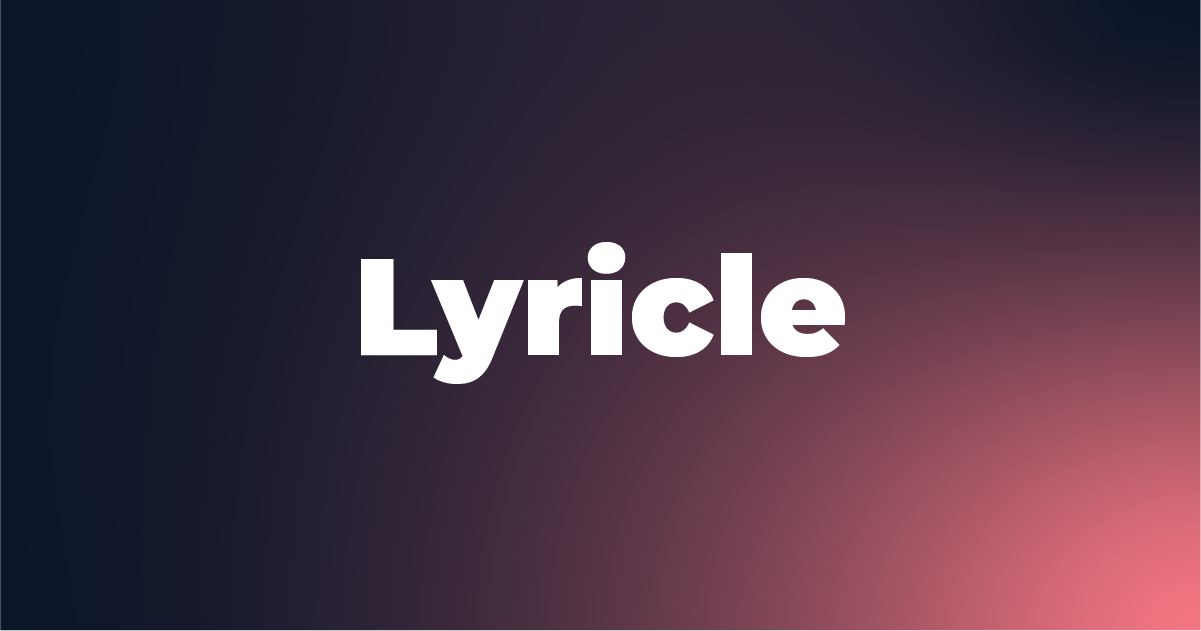
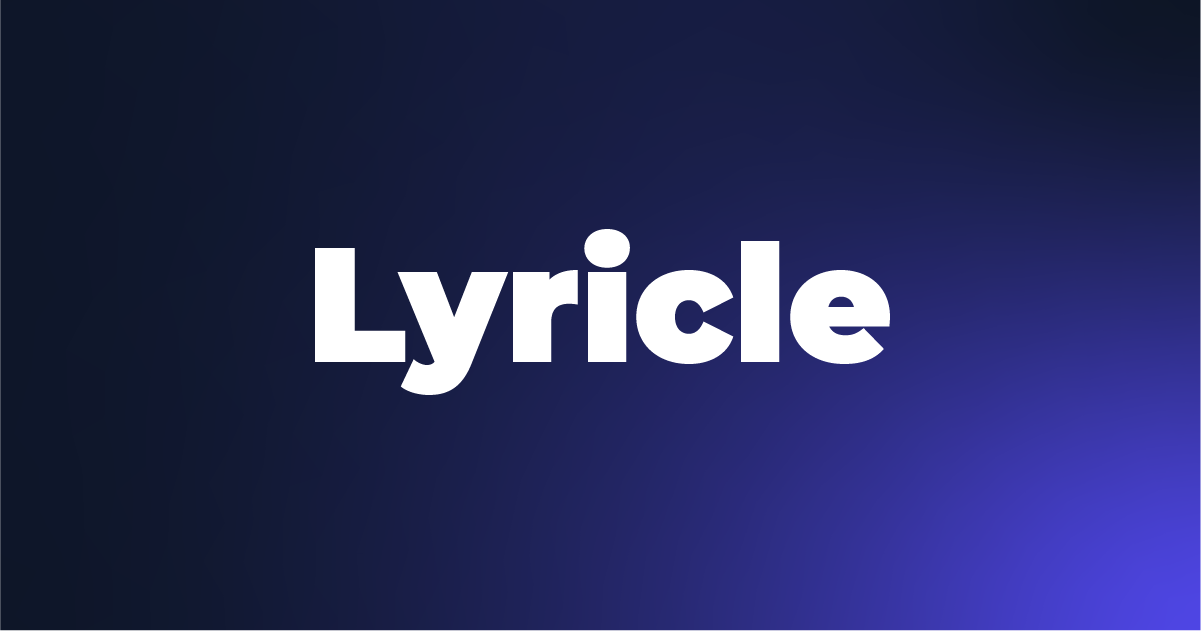
Add about page, update link preview thumbnail

diff --git a/src/components/modals/InfoModal.tsx b/src/components/modals/InfoModal.tsx
@@ -1,5 +1,8 @@
 import { BaseModal } from './BaseModal'
 
+import { ReactComponent as Twitter } from '../../assets/twitter.svg'
+import { ReactComponent as Instagram } from '../../assets/instagram.svg'
+
 type Props = {
   isOpen: boolean
   handleClose: () => void
@@ -8,15 +11,54 @@ type Props = {
 export const InfoModal = ({ isOpen, handleClose }: Props) => {
   return (
     <BaseModal title="About" isOpen={isOpen} handleClose={handleClose}>
-      <p className="text-sm text-gray-500 dark:text-gray-100">
-        Guess the song in 6 tries. After each guess, the color of the
-        corresponding section of the progress bar will change to show if your
-        guess was correct or not.
+      <div className="w-full h-0 pb-[56%] relative mt-3 mb-6 pointer-events-none">
+        <iframe
+          className="giphy-embed absolute"
+          title="another-one-gif"
+          src="https://giphy.com/embed/qgri3D9sTwCUGMcT8L"
+          width="100%"
+          height="100%"
+          frameBorder="0"
+          allowFullScreen
+        ></iframe>
+      </div>
+      <p className="text-sm dark:text-gray-200 mb-6">
+        We're sure you're all familiar with the "-le" type games by now. We were{' '}
+        <span className="decoration-double line-through">heavily</span> inspired
+        by both{' '}
+        <a
+          className="underline decoration-dashed decoration-green-400 dark:decoration-green-200 decoration-2 hover:bg-green-200 hover:text-gray-900 px-1"
+          href="https://heardle.app"
+          target="_blank"
+          rel="noreferrer"
+        >
+          Heardle
+        </a>{' '}
+        and{' '}
+        <a
+          className="underline decoration-dashed decoration-green-400 dark:decoration-green-200 decoration-2 hover:bg-green-200 hover:text-gray-900 px-1"
+          href="https://www.nytimes.com/games/wordle/index.html"
+          target="_blank"
+          rel="noreferrer"
+        >
+          Wordle
+        </a>{' '}
+        to create Lyricle.
       </p>
 
-      <p className="text-sm text-gray-500 dark:text-gray-300"></p>
+      <p className="text-sm dark:text-gray-200 mb-6">Hope you enjoy!</p>
 
-      <p className="mt-6 italic text-sm text-gray-500 dark:text-gray-300"></p>
+      <div className="flex justify-center">
+        <div className="icon flex mr-3">
+          <a href="https://twitter.com/lyricle_app">
+            <Twitter className="w-6 h-6 mx-1 grayscale hover:grayscale-0" />
+          </a>
+          <a href="https://www.instagram.com/lyricle_app/">
+            <Instagram className="w-6 h-6 mx-1 grayscale hover:grayscale-0" />
+          </a>
+        </div>
+        <p className="dark:text-gray-200">@lyricle_app</p>
+      </div>
     </BaseModal>
   )
 }

diff --git a/public/index.html b/public/index.html
@@ -11,12 +11,12 @@
     <meta property="og:type" content="website" />
     <meta property="og:url" content="https://www.lyricle.app" />
     <meta property="og:description" content="%REACT_APP_GAME_DESCRIPTION%" />
-    <meta property="og:image" content="%PUBLIC_URL%/Lyricle.png" />
+    <meta property="og:image" content="%PUBLIC_URL%/og.png" />
 
     <meta name="twitter:card" content="summary_large_image" />
     <meta name="twitter:title" content="%REACT_APP_GAME_TITLE%" />
     <meta name="twitter:description" content="%REACT_APP_GAME_DESCRIPTION%" />
-    <meta name="twitter:image" content="%PUBLIC_URL%/Lyricle.png" />
+    <meta name="twitter:image" content="%PUBLIC_URL%/og.png" />
 
     <link rel="apple-touch-icon" href="%PUBLIC_URL%/logo192.png" />
     <!--
